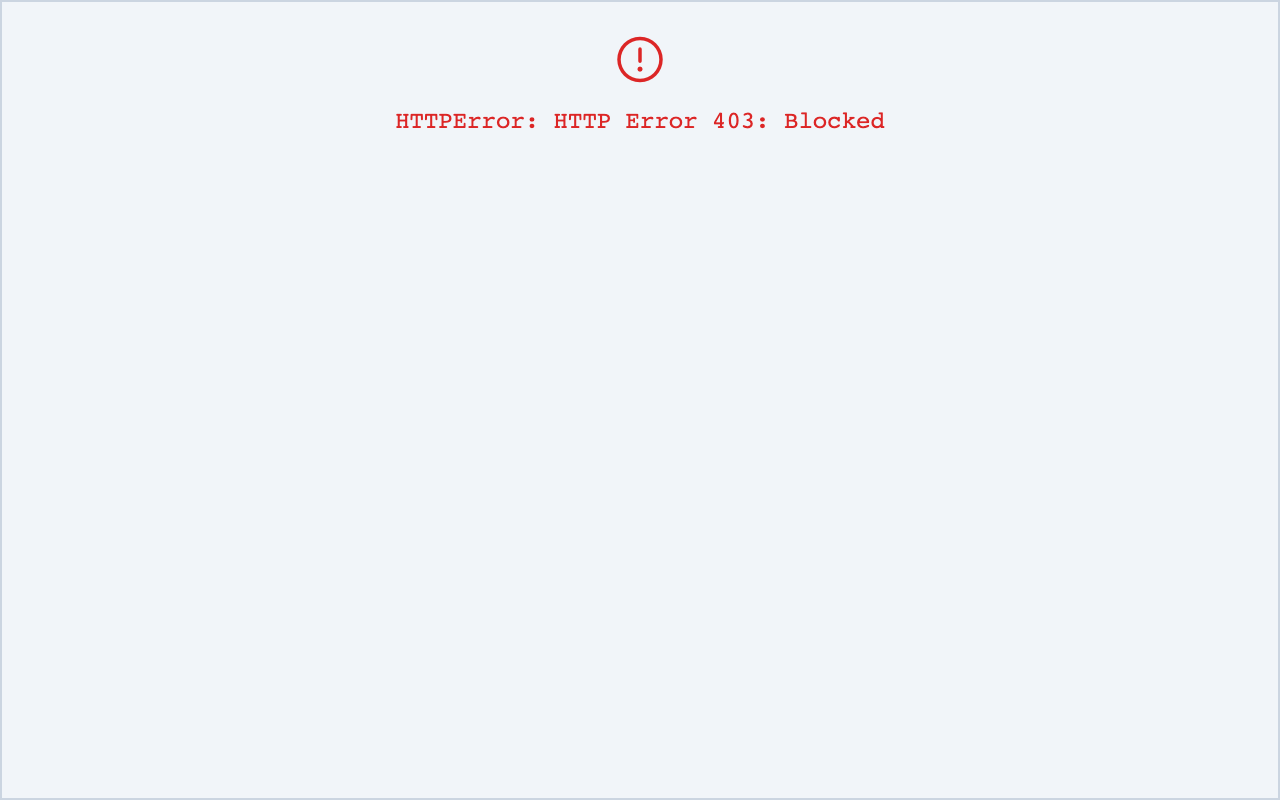
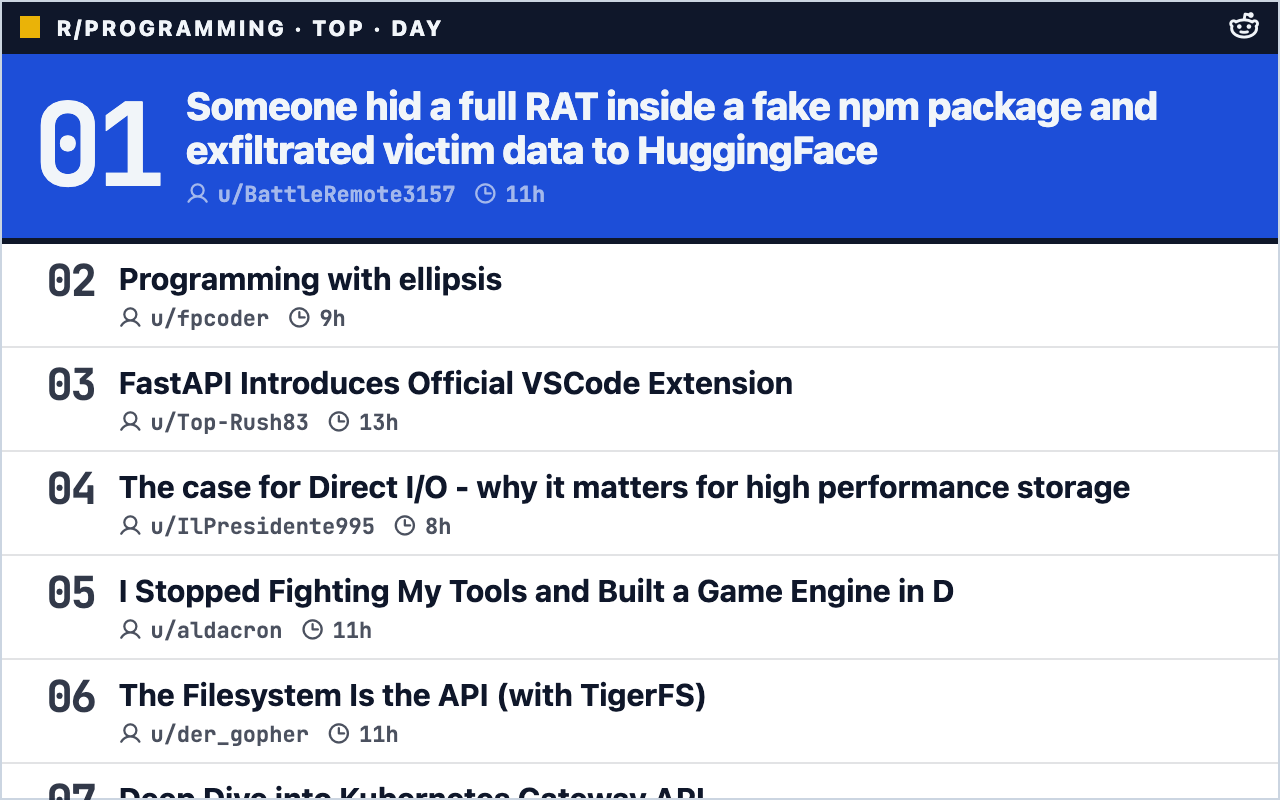
fix(news_reddit): read the RSS feed — the .json API now 403-blocks
Reddit firewall-blocks the public /r/<sub>.json endpoint for server-side
reads (HTTP 403 + an HTML challenge page) regardless of User-Agent, so
header tweaks can't fix it. The per-subreddit RSS feed (/r/<sub>/<sort>.rss)
is still served, so parse that instead (stdlib ElementTree, same approach as
news_rss). RSS carries title/author/permalink/time but no score or comment
counts — the client now hides those chips when absent. Adds a smoke test and
updates the Fragile-tier note.

diff --git a/plugins/news_reddit/client.js b/plugins/news_reddit/client.js
@@ -35,12 +35,18 @@ export default async function render(shadow, ctx) {
   const posts = Array.isArray(data.posts) ? data.posts : [];
 
   function meta(p) {
-    return `
-      <span class="rd-score"><i class="ph-bold ph-arrow-fat-up"></i>${fmtScore(p.score)}</span>
-      <span class="rd-com"><i class="ph-bold ph-chat-circle-text"></i>${p.comments}</span>
-      <span class="rd-by"><i class="ph-bold ph-user"></i>u/${escapeHtml(p.author)}</span>
-      <span class="rd-when"><i class="ph-bold ph-clock"></i>${escapeHtml(ago(p.time))}</span>
-    `;
+    // Score + comments come from the JSON API; the RSS feed (current
+    // source) omits them, so only render those chips when present.
+    const bits = [];
+    if (p.score != null) {
+      bits.push(`<span class="rd-score"><i class="ph-bold ph-arrow-fat-up"></i>${fmtScore(p.score)}</span>`);
+    }
+    if (p.comments != null) {
+      bits.push(`<span class="rd-com"><i class="ph-bold ph-chat-circle-text"></i>${p.comments}</span>`);
+    }
+    bits.push(`<span class="rd-by"><i class="ph-bold ph-user"></i>u/${escapeHtml(p.author)}</span>`);
+    bits.push(`<span class="rd-when"><i class="ph-bold ph-clock"></i>${escapeHtml(ago(p.time))}</span>`);
+    return bits.join("");
   }
 
   const lede = posts[0];

diff --git a/plugins/news_reddit/server.py b/plugins/news_reddit/server.py
@@ -1,4 +1,11 @@
-"""news_reddit — top posts from a subreddit via the public .json endpoint."""
+"""news_reddit — top posts from a subreddit via Reddit's RSS/Atom feed.
+
+Reddit firewall-blocks the public ``.json`` endpoint (HTTP 403 with an HTML
+challenge page) for server-side reads regardless of User-Agent. The per-
+subreddit RSS feed (``/r/<sub>/<sort>.rss``) is still served, so we parse
+that instead. The trade-off: RSS carries title / author / permalink / time
+but **not** score or comment counts — the client hides those when absent.
+"""
 
 from __future__ import annotations
 
@@ -7,13 +14,47 @@ import json
 import re
 import time
 import urllib.request
+from datetime import UTC, datetime
+from email.utils import parsedate_to_datetime
 from pathlib import Path
 from typing import Any
+from xml.etree import ElementTree as ET
 
 CACHE_TTL_S = 600
 HTTP_TIMEOUT_S = 12
-USER_AGENT = "tesserae/0.1 (+news_reddit)"
+# Reddit blocks bot-shaped UAs on its public feeds; a browser UA is served.
+USER_AGENT = (
+    "Mozilla/5.0 (Macintosh; Intel Mac OS X 10_15_7) AppleWebKit/605.1.15 "
+    "(KHTML, like Gecko) Version/17.4 Safari/605.1.15"
+)
 SUB_RE = re.compile(r"^[A-Za-z0-9_]{1,21}$")
+ATOM_NS = "{http://www.w3.org/2005/Atom}"
+
+
+def _epoch(text: str | None) -> float | None:
+    """Atom ISO-8601 (or RSS RFC-822) timestamp → UNIX epoch seconds."""
+    if not text:
+        return None
+    s = text.strip()
+    try:
+        dt = datetime.fromisoformat(s.replace("Z", "+00:00"))
+    except ValueError:
+        try:
+            dt = parsedate_to_datetime(s)
+        except (TypeError, ValueError):
+            return None
+    if dt is None:
+        return None
+    if dt.tzinfo is None:
+        dt = dt.replace(tzinfo=UTC)
+    return dt.timestamp()
+
+
+def _author(entry: ET.Element) -> str:
+    name_el = entry.find(f"{ATOM_NS}author/{ATOM_NS}name")
+    name = (name_el.text or "").strip() if name_el is not None else ""
+    # Reddit writes "/u/username"; show the bare name.
+    return name.removeprefix("/u/").removeprefix("u/")
 
 
 def fetch(
@@ -43,30 +84,38 @@ def fetch(
         except (json.JSONDecodeError, OSError):
             pass
 
-    url = f"https://www.reddit.com/r/{sub}/{sort}.json?limit={max_items}"
+    url = f"https://www.reddit.com/r/{sub}/{sort}.rss?limit={max_items}"
     if sort == "top":
         url += f"&t={window}"
     try:
-        req = urllib.request.Request(url, headers={"User-Agent": USER_AGENT})
+        req = urllib.request.Request(
+            url,
+            headers={"User-Agent": USER_AGENT, "Accept": "application/atom+xml, application/xml"},
+        )
         with urllib.request.urlopen(req, timeout=HTTP_TIMEOUT_S) as resp:
-            payload = json.loads(resp.read().decode("utf-8"))
+            feed = ET.fromstring(resp.read())
     except Exception as err:
         return {"error": f"{type(err).__name__}: {err}", "posts": []}
 
-    children = ((payload.get("data") or {}).get("children")) or []
     posts = []
-    for c in children[:max_items]:
-        d = c.get("data") or {}
+    for entry in feed.findall(f"{ATOM_NS}entry")[:max_items]:
+        title_el = entry.find(f"{ATOM_NS}title")
+        link_el = entry.find(f"{ATOM_NS}link")
+        published_el = entry.find(f"{ATOM_NS}published")
+        if published_el is None:
+            published_el = entry.find(f"{ATOM_NS}updated")
+        href = link_el.attrib.get("href", "") if link_el is not None else ""
         posts.append(
             {
-                "title": d.get("title") or "",
-                "url": d.get("url") or f"https://reddit.com{d.get('permalink', '')}",
-                "permalink": f"https://reddit.com{d.get('permalink', '')}",
-                "author": d.get("author") or "",
-                "score": d.get("score") or 0,
-                "comments": d.get("num_comments") or 0,
-                "time": d.get("created_utc"),
-                "is_self": bool(d.get("is_self")),
+                "title": (title_el.text or "").strip() if title_el is not None else "",
+                "url": href,
+                "permalink": href,
+                "author": _author(entry),
+                # RSS carries neither score nor comment count nor self-post flag.
+                "score": None,
+                "comments": None,
+                "time": _epoch(published_el.text if published_el is not None else None),
+                "is_self": False,
             }
         )
     result = {"subreddit": sub, "sort": sort, "window": window, "posts": posts}

diff --git a/plugins/news_reddit/tests/test_smoke.py b/plugins/news_reddit/tests/test_smoke.py
@@ -1,0 +1,48 @@
+"""Smoke test — news_reddit parses Reddit's Atom feed, no network."""
+
+from __future__ import annotations
+
+from unittest.mock import patch
+
+import pytest
+from flask.testing import FlaskClient
+
+_ATOM = b"""<?xml version="1.0" encoding="UTF-8"?>
+<feed xmlns="http://www.w3.org/2005/Atom">
+  <title>programming</title>
+  <entry>
+    <title>First post about Rust</title>
+    <link href="https://www.reddit.com/r/programming/comments/aaa/first/"/>
+    <author><name>/u/alice</name></author>
+    <published>2026-05-30T01:00:00+00:00</published>
+  </entry>
+  <entry>
+    <title>Second post about Go</title>
+    <link href="https://www.reddit.com/r/programming/comments/bbb/second/"/>
+    <author><name>/u/bob</name></author>
+    <updated>2026-05-30T02:00:00+00:00</updated>
+  </entry>
+</feed>"""
+
+
+class _FakeResp:
+    def read(self) -> bytes:
+        return _ATOM
+
+    def __enter__(self) -> _FakeResp:
+        return self
+
+    def __exit__(self, *a: object) -> bool:
+        return False
+
+
+@pytest.mark.parametrize("size", ["xs", "sm", "md", "lg"])
+def test_widget_renders(client: FlaskClient, size: str) -> None:
+    with patch("urllib.request.urlopen", return_value=_FakeResp()):
+        resp = client.get(f"/_test/render?plugin=news_reddit&size={size}")
+    assert resp.status_code == 200
+    body = resp.get_data(as_text=True)
+    assert 'data-plugin="news_reddit"' in body
+    # Title + author from the fake feed land in the cell's embedded data.
+    assert "First post about Rust" in body
+    assert "alice" in body

diff --git a/README.md b/README.md
@@ -333,7 +333,7 @@ serve stale data.
 | Widget | Why fragile |
 |---|---|
 | `weather_pollen_count` (Melbourne fallback) | Scrapes melbournepollen.com.au's home page when Open-Meteo's pollen data is null (it's Europe-only). Any DOM redesign on their end breaks this path. The Open-Meteo path is stable. |
-| `news_reddit` | Uses Reddit's public `/r/<sub>.json` endpoint. Reddit has tightened API access over time; this still works for low-volume reads but could be locked down. |
+| `news_reddit` | Reads Reddit's per-subreddit RSS feed (`/r/<sub>/<sort>.rss`). The public `.json` API now 403-blocks server-side reads outright, so RSS is the remaining no-auth path — it carries titles/authors/times but **no** score or comment counts, and could itself be locked down. |
 
 ### Tier policy
 
